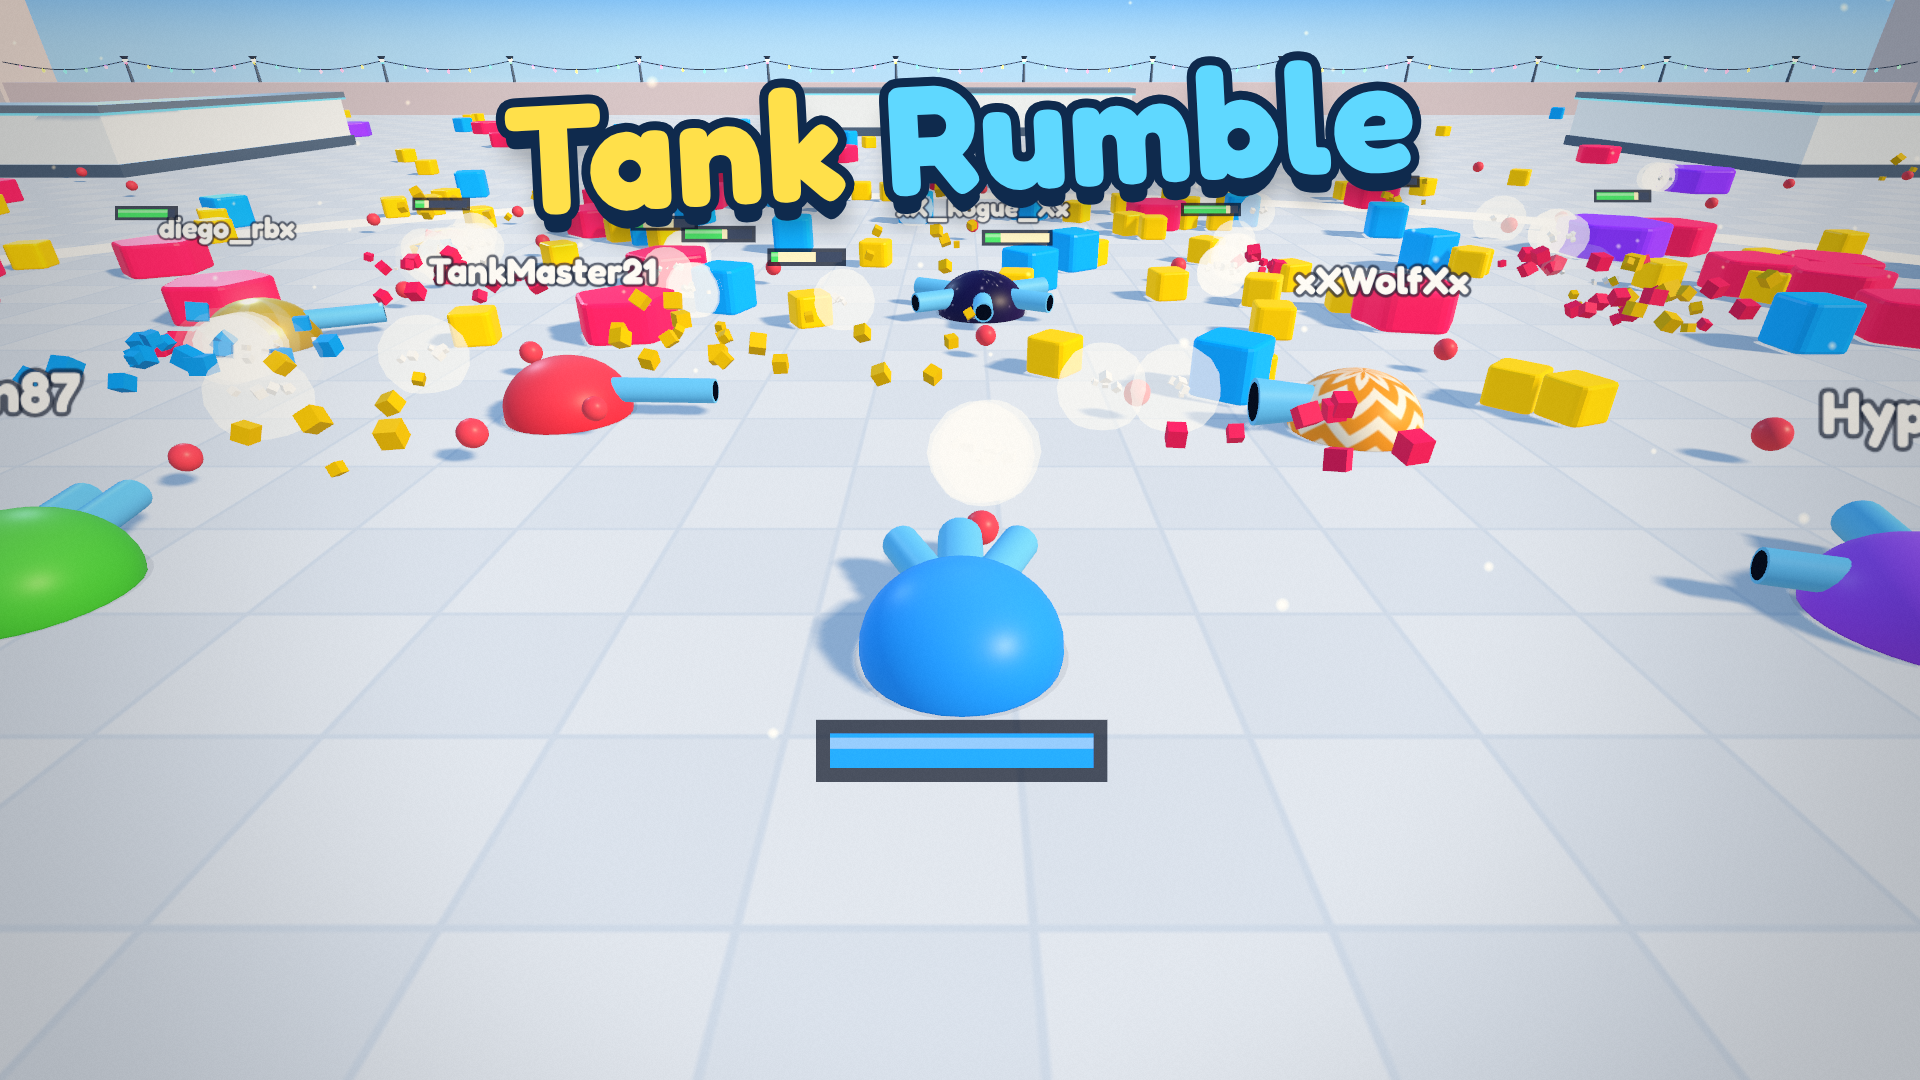
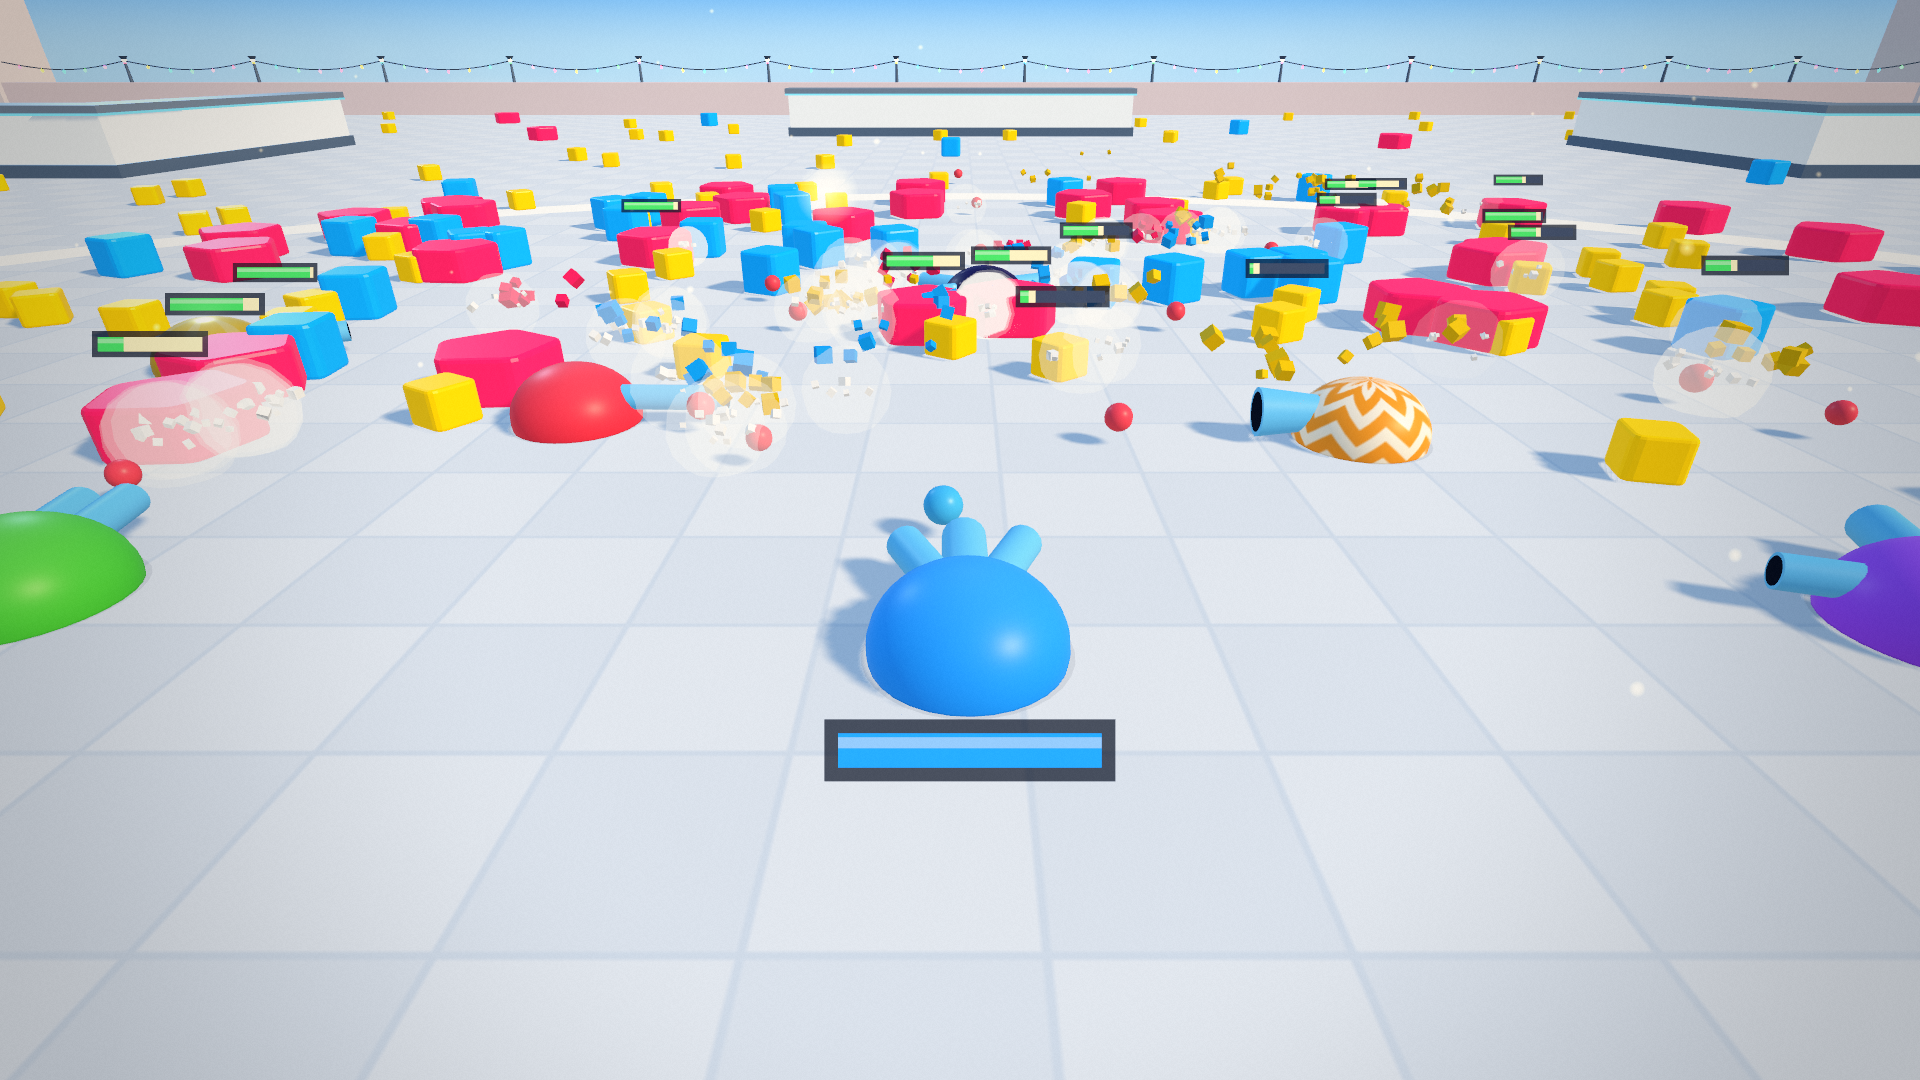
Fairer fights, accurate portal entry, mobile battle HUD, background-tab fix
- Bot levels follow the human players (re-rolled on respawn); bots spawn with an 8s shield; no regen for 4s after damage
- Railguns reload ~2.5x slower
- Portals trigger only when driving through the arch opening
- Effects are skipped while the tab is hidden and cleared on return (no flood of streaks/blasts)
- Wheel: short value labels on the arc, tank slices icon-only (no overlap)
- Menu close button always on top; mobile battle hides the side button columns
- Thicker outline on the XP bar stars; more saturated button icons
- Covers re-rendered without any text (title logo now optional via --title)

Claude-Session: https://claude.ai/code/session_01XKnRKcY9kXMCSevSGzpXXg

diff --git a/public/shared/tanks.js b/public/shared/tanks.js
@@ -49,7 +49,7 @@ T('flame', 'Flame', 'Flame', 1, 15, 'default',
   [b({ kind: 'flame', len: 3.0, w: 1.2, cone: 1.3, rel: 0.1, dmg: 0.22, pen: 3, spd: 0.55, life: 0.45, spread: 0.3, bs: 1.1, recoil: 0.1 })],
   { desc: 'Short range flamethrower.' });
 T('railgun', 'Railgun', 'Sniper', 1, 15, 'default',
-  [b({ kind: 'rail', len: 5.0, w: 1.05, rel: 2.3, dmg: 6.5, pen: 6, spd: 2.5, life: 0.85, bs: 0.75, spread: 0, recoil: 3.5 })],
+  [b({ kind: 'rail', len: 5.0, w: 1.05, rel: 5.8, dmg: 6.5, pen: 6, spd: 2.5, life: 0.85, bs: 0.75, spread: 0, recoil: 3.5 })],
   { fov: 1.25, unlock: { type: 'gems', price: 60000 }, desc: 'Fires a long neon beam that pierces everything in its path.' });
 T('blastlord', 'Bombardier', 'Special', 1, 15, 'default',
   [b({ kind: 'blast', len: 3.2, w: 1.7, rel: 2.0, dmg: 2.0, pen: 2, spd: 0.75, bs: 1.6, recoil: 3 })],
@@ -111,8 +111,8 @@ T('breaker', 'Breaker', 'Special', 2, 30, 'freezer',
 T('doubleflame', 'Double Flame', 'Flame', 2, 30, 'flame',
   [-0.5, 0.5].map((ox) => b({ ox, kind: 'flame', len: 3.0, w: 1.0, cone: 1.3, rel: 0.1, dmg: 0.2, pen: 3, spd: 0.55, life: 0.45, spread: 0.3, bs: 1.0, recoil: 0.1 })));
 T('thunder', 'Thunder', 'Sniper', 2, 30, 'railgun',
-  [b({ kind: 'rail', ox: -0.5, len: 5.0, w: 0.85, rel: 2.4, dmg: 4.5, pen: 6, spd: 2.5, life: 0.85, bs: 0.75, spread: 0 }),
-    b({ kind: 'rail', ox: 0.5, len: 5.0, w: 0.85, rel: 2.4, dmg: 4.5, pen: 6, spd: 2.5, life: 0.85, bs: 0.75, spread: 0, delay: 0.5 })], { fov: 1.3 });
+  [b({ kind: 'rail', ox: -0.5, len: 5.0, w: 0.85, rel: 6.0, dmg: 4.5, pen: 6, spd: 2.5, life: 0.85, bs: 0.75, spread: 0 }),
+    b({ kind: 'rail', ox: 0.5, len: 5.0, w: 0.85, rel: 6.0, dmg: 4.5, pen: 6, spd: 2.5, life: 0.85, bs: 0.75, spread: 0, delay: 0.5 })], { fov: 1.3 });
 T('apex', 'Apex', 'Special', 2, 30, 'blastlord',
   [b({ kind: 'blast', len: 3.4, w: 1.9, rel: 2.1, dmg: 2.6, pen: 2.4, spd: 0.75, bs: 1.9, recoil: 3 })]);
 
@@ -164,7 +164,7 @@ T('orbitronsr', 'Constellation', 'Special', 4, 110, 'orbitronjr',
   [b({ kind: 'orbit', len: 2.8, w: 1.1, rel: 0.45, dmg: 1.0, pen: 3.5, maxOrb: 12, life: 8 }), b({ len: 3.6, w: 1.0, dmg: 1.0 }), b({ a: PI, len: 3.0, w: 0.9, dmg: 0.8, delay: 0.5 })],
   { unlock: { type: 'gems', price: 40000 } });
 T('striker', 'Striker', 'Sniper', 4, 110, 'ace',
-  [b({ kind: 'rail', len: 5.8, w: 1.1, rel: 2.0, dmg: 7.5, pen: 7, spd: 2.6, life: 0.9, bs: 0.8, spread: 0 })],
+  [b({ kind: 'rail', len: 5.8, w: 1.1, rel: 5.0, dmg: 7.5, pen: 7, spd: 2.6, life: 0.9, bs: 0.8, spread: 0 })],
   { fov: 1.45, unlock: { type: 'gems', price: 35000 } });
 T('blastking', 'Demolisher', 'Special', 4, 110, 'apex',
   [-0.5, 0.5].map((ox, i) => b({ ox, kind: 'blast', len: 3.4, w: 1.5, rel: 2.0, dmg: 2.2, pen: 2.2, spd: 0.8, bs: 1.6, recoil: 2, delay: i * 0.5 })));

diff --git a/public/js/ui/icons.js b/public/js/ui/icons.js
@@ -70,6 +70,15 @@ if (typeof document !== 'undefined' && !document.getElementById('icol-defs')) {
         <feFuncR type="linear" slope="0.36"/><feFuncG type="linear" slope="0.36"/><feFuncB type="linear" slope="0.42"/>
       </feComponentTransfer>
       <feMerge><feMergeNode in="dk"/><feMergeNode in="SourceGraphic"/></feMerge>
+    </filter>
+    <filter id="icolT" x="-35%" y="-35%" width="170%" height="170%" color-interpolation-filters="sRGB">
+      <feMorphology in="SourceGraphic" operator="dilate" radius="1.5" result="m"/>
+      <feOffset in="m" dx="3.40" dy="0.00" result="o0"/><feOffset in="m" dx="3.14" dy="1.30" result="o1"/><feOffset in="m" dx="2.40" dy="2.40" result="o2"/><feOffset in="m" dx="1.30" dy="3.14" result="o3"/><feOffset in="m" dx="0.00" dy="3.40" result="o4"/><feOffset in="m" dx="-1.30" dy="3.14" result="o5"/><feOffset in="m" dx="-2.40" dy="2.40" result="o6"/><feOffset in="m" dx="-3.14" dy="1.30" result="o7"/><feOffset in="m" dx="-3.40" dy="0.00" result="o8"/><feOffset in="m" dx="-3.14" dy="-1.30" result="o9"/><feOffset in="m" dx="-2.40" dy="-2.40" result="o10"/><feOffset in="m" dx="-1.30" dy="-3.14" result="o11"/><feOffset in="m" dx="-0.00" dy="-3.40" result="o12"/><feOffset in="m" dx="1.30" dy="-3.14" result="o13"/><feOffset in="m" dx="2.40" dy="-2.40" result="o14"/><feOffset in="m" dx="3.14" dy="-1.30" result="o15"/>
+      <feMerge result="d"><feMergeNode in="o0"/><feMergeNode in="o1"/><feMergeNode in="o2"/><feMergeNode in="o3"/><feMergeNode in="o4"/><feMergeNode in="o5"/><feMergeNode in="o6"/><feMergeNode in="o7"/><feMergeNode in="o8"/><feMergeNode in="o9"/><feMergeNode in="o10"/><feMergeNode in="o11"/><feMergeNode in="o12"/><feMergeNode in="o13"/><feMergeNode in="o14"/><feMergeNode in="o15"/></feMerge>
+      <feComponentTransfer in="d" result="dk">
+        <feFuncR type="linear" slope="0.36"/><feFuncG type="linear" slope="0.36"/><feFuncB type="linear" slope="0.42"/>
+      </feComponentTransfer>
+      <feMerge><feMergeNode in="dk"/><feMergeNode in="SourceGraphic"/></feMerge>
     </filter></defs></svg>`;
   document.body.appendChild(d);
 }

diff --git a/public/shared/world.js b/public/shared/world.js
@@ -280,13 +280,14 @@ export class World {
     const [x, z] = this.spawnPoint(t);
     t.x = x; t.z = z; t.vx = 0; t.vz = 0;
     t.tankId = 'default';
+    if (t.isBot) { t.level = this.botLevelFor(); t.infoVer++; } // bots stay matched to the players here
     t.stats = [0, 0, 0, 0, 0, 0, 0, 0];
     t.spent = 0;
     t.d = null;
     this.recalc(t);
     t.hp = t.d.maxHp;
     t.alive = true;
-    t.shieldUntil = this.time + SPAWN_SHIELD;
+    t.shieldUntil = this.time + (t.isBot ? 8 : SPAWN_SHIELD); // bots: short shield so new players can fight them
     t.cd = [];
     t.orbs = 0;
     t.stillT = 0;
@@ -568,7 +569,7 @@ export class World {
       if (t.hp < t.d.maxHp) {
         let rg = t.d.regen;
         if (now - t.lastDmg > 25) rg += 0.08;
-        else if (now - t.lastDmg < 3) rg *= 0.3;
+        else if (now - t.lastDmg < 4) rg = 0; // no regen while under fire
         t.hp = Math.min(t.d.maxHp, t.hp + t.d.maxHp * rg * DT);
       }
       this.fireTank(t);
@@ -904,8 +905,20 @@ export class World {
     }
   }
 
+  // bot levels follow the real players in the server (a new player meets low-level bots,
+  // veterans meet strong ones); with nobody here, a spread like a real public server
+  botLevelFor() {
+    const lv = [];
+    for (const t of this.tanks.values()) if (!t.isBot) lv.push(t.level);
+    if (!lv.length) return Math.min(60, botLevel());
+    const avg = lv.reduce((a, b) => a + b, 0) / lv.length;
+    const r = rand();
+    const f = r < 0.6 ? 0.5 + rand() * 0.6 : r < 0.9 ? 0.9 + rand() * 0.5 : 1.3 + rand() * 0.6;
+    return clamp(Math.round(avg * f + rand() * 6), 1, MAX_LEVEL);
+  }
+
   addBot() {
-    const level = botLevel();
+    const level = this.botLevelFor();
     const owned = [];
     for (const d of Object.values(TANKS)) {
       if (d.unlock.type !== 'level' && rand() < 0.25) owned.push(d.id);

diff --git a/public/js/ui/menus.js b/public/js/ui/menus.js
@@ -640,10 +640,11 @@ export function createMenus(G) {
       const icon = sg.tank
         ? `<image href="${tankIcon(sg.tank)}" x="${ix - 26}" y="${iy - 26}" width="52" height="52" transform="rotate(${mid} ${ix} ${iy})"/>`
         : `<g transform="rotate(${mid} ${ix} ${iy})">${ic(sg.gems ? 'gem' : 'star', 40).replace('<svg ', `<svg x="${ix - 20}" y="${iy - 20}" `)}</g>`;
-      // label runs along the radius (outward), so it never spills into the neighbouring slices
-      const [tx, ty] = pt(R * 0.45, mid);
-      deco += icon + `<text x="${tx}" y="${ty}" transform="rotate(${mid - 90} ${tx} ${ty})" text-anchor="middle" dominant-baseline="middle"
-        font-family="Fredoka, sans-serif" font-weight="700" font-size="${sg.tank ? 13 : 16}" ${sg.tank ? 'textLength="58" lengthAdjust="spacingAndGlyphs"' : ''} fill="#fff" stroke="${shade(sg.color, 0.45)}" stroke-width="4" paint-order="stroke">${sg.tank ? '' : '+'}${segValue(sg)}</text>`;
+      // short value label along the arc where the slice is wide enough; tank slices show only their icon
+      const [tx, ty] = pt(R * 0.53, mid);
+      if (!sg.tank) deco += `<text x="${tx}" y="${ty}" transform="rotate(${mid} ${tx} ${ty})" text-anchor="middle" dominant-baseline="middle"
+        font-family="Fredoka, sans-serif" font-weight="700" font-size="15" fill="#fff" stroke="${shade(sg.color, 0.45)}" stroke-width="4" paint-order="stroke">+${segValue(sg)}</text>`;
+      deco += icon;
     });
     let bulbs = '';
     for (let k = 0; k < 24; k++) { const [bx, by] = pt(R + 8, k * 15); bulbs += `<circle class="bulb ${k % 2 ? 'b2' : ''}" cx="${bx}" cy="${by}" r="4.2"/>`; }

diff --git a/public/js/game.js b/public/js/game.js
@@ -70,8 +70,10 @@ export class Arena {
   // ------------------------------------------------------------------ lifecycle
   async start(mode, roomId) {
     // when the tab is hidden, tell the server we stopped (no drifting while away)
+    // and when it comes back, drop any effects that piled up while rendering was paused
     this.onHide = () => {
       if (document.hidden && this.conn && this.ready) this.conn.send({ t: 'in', s: ++this.seq, mx: 0, mz: 0, a: this.aim, f: 0 });
+      if (!document.hidden) this.clearEffects();
     };
     document.addEventListener('visibilitychange', this.onHide);
     this.mode = mode;
@@ -376,7 +378,20 @@ export class Arena {
     }
   }
 
+  // remove every transient effect (used after the tab was in the background)
+  clearEffects() {
+    if (!this.root) return;
+    for (const st of this.streaks || []) { this.root.remove(st.m); st.m.material.dispose(); }
+    for (const b of this.blasts || []) { this.root.remove(b.m); if (!b.shared) b.m.geometry.dispose(); b.m.material.dispose(); }
+    this.streaks = []; this.blasts = []; this.parts = [];
+    if (this.snaps && this.snaps.length > 1) this.snaps.splice(0, this.snaps.length - 1);
+    this.offset = null;
+  }
+
   onFx(f) {
+    // rendering is paused while the tab is hidden: don't queue effects that would all appear at once later
+    if (document.hidden) return;
+    if ((this.streaks && this.streaks.length > 48) || (this.blasts && this.blasts.length > 90)) return;
     const [type, x, z, a] = f;
     if (type === FX.POP) {
       const s = SHAPES[SHAPE_LIST[a]];

diff --git a/public/js/lobby.js b/public/js/lobby.js
@@ -248,8 +248,14 @@ export class Lobby {
     }
     // portals
     for (const po of LOBBY.portals) {
-      const r = po.big ? 7.5 : 6; // bigger portals
-      if (Math.hypot(po.x - p.x, po.z - p.z) < r) {
+      // enter only by driving through the arch's opening (not just near the portal)
+      const sc = (po.big ? 1.35 : 1) * 1.5; // same scale as the 3D portal
+      const nd = Math.hypot(po.x, po.z) || 1, nx = -po.x / nd, nz = -po.z / nd; // arch faces the lobby centre
+      const rx = p.x - po.x, rz = p.z - po.z;
+      const front = rx * nx + rz * nz; // distance in front of the arch plane
+      const side = Math.abs(rx * -nz + rz * nx); // sideways from the arch centre
+      const r = po.big ? 7.5 : 6; // used for the locked-portal push-back
+      if (front < 0.9 && front > -4 && side < 3.3 * sc) {
         const mode = MODES[po.id];
         if (mode.minLevel && profile.level < mode.minLevel) {
           if (!this.inside[po.id]) G.hud.toast(`Reach Level ${mode.minLevel} to enter ${mode.name}!`, 'red');

diff --git a/public/css/style.css b/public/css/style.css
@@ -1012,3 +1012,12 @@ body.touch #b-recover { top: 112px; height: 40px; font-size: 16px; }
 }
 .gift .tm { top: 6px; right: 8px; line-height: 1.2; }
 .gift .amt { bottom: 6px; line-height: 1.2; }
+
+/* ================================================================ round 12 */
+/* the close (X) button always sits above every other element of a menu */
+.modal .mclose { z-index: 60; }
+.modal .mtitle { z-index: 55; }
+/* mobile battle: hide the side columns (store, gifts, rank...) - only the Lobby button and controls stay */
+body.touch.in-arena #left, body.touch.in-arena #right { display: none !important; }
+/* punchier icons on buttons */
+.rbtn svg.ic, .btn svg.ic, .tf svg.ic { filter: saturate(1.4) contrast(1.06); }

diff --git a/public/js/ui/hud.js b/public/js/ui/hud.js
@@ -22,7 +22,7 @@ export function createHUD(G) {
       <div id="xpbar">
         <div class="track"><div class="fill"><div class="gloss"></div><div class="shine"></div></div></div>
         <div class="txt lbl"></div>
-        <span class="star l">${ic('star', 54)}</span><span class="star r">${ic('star', 54)}</span>
+        <span class="star l">${ic('star', 54).replace('url(#icol)', 'url(#icolT)')}</span><span class="star r">${ic('star', 54).replace('url(#icol)', 'url(#icolT)')}</span>
       </div>
       <div id="lvl" class="lbl"></div>
     </div>

diff --git a/README.md b/README.md
@@ -80,7 +80,9 @@ The server is authoritative. It runs at 30 ticks/s and sends area-of-interest sn
 - Railgun-class tanks fire a long neon beam that pierces shapes, tanks and bullets. Each target is hit once, and the beam loses 20% damage per target.
 - Health bars show a short "damage trail" that drains after each hit.
 - Spiked tanks: the spike tips deal damage too (they reach past the body), and ramming damage scales with the **Damage** stat instead of Body Damage.
-- The spawn shield blocks damage but not attacking. Hurting another tank ends your own shield.
+- The spawn shield blocks damage but not attacking. Hurting another tank ends your own shield. Bots respawn with a shorter (8 s) shield.
+- Bot levels follow the real players in the server, re-rolled on every respawn, so a new player meets low-level bots.
+- Health doesn't regenerate during the 4 seconds after taking damage.
 - **Recover Last:** when you die, your tank and stat points are saved (even across reloads). On your next spawn, one button restores them.
 
 ## Originality
